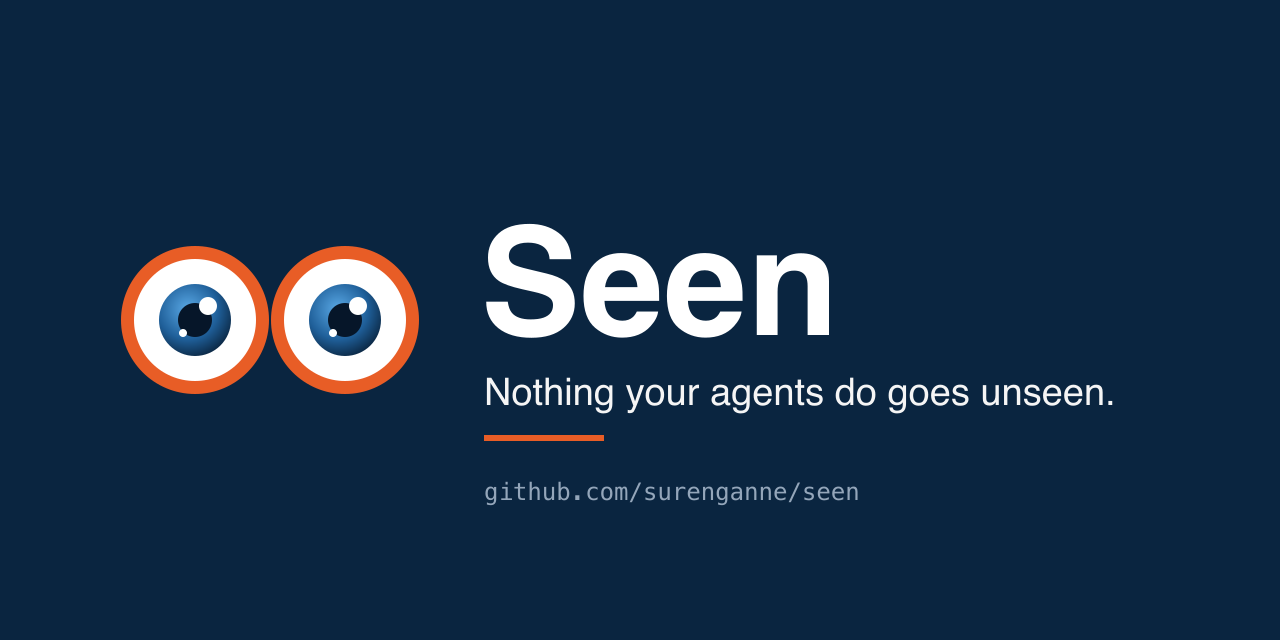
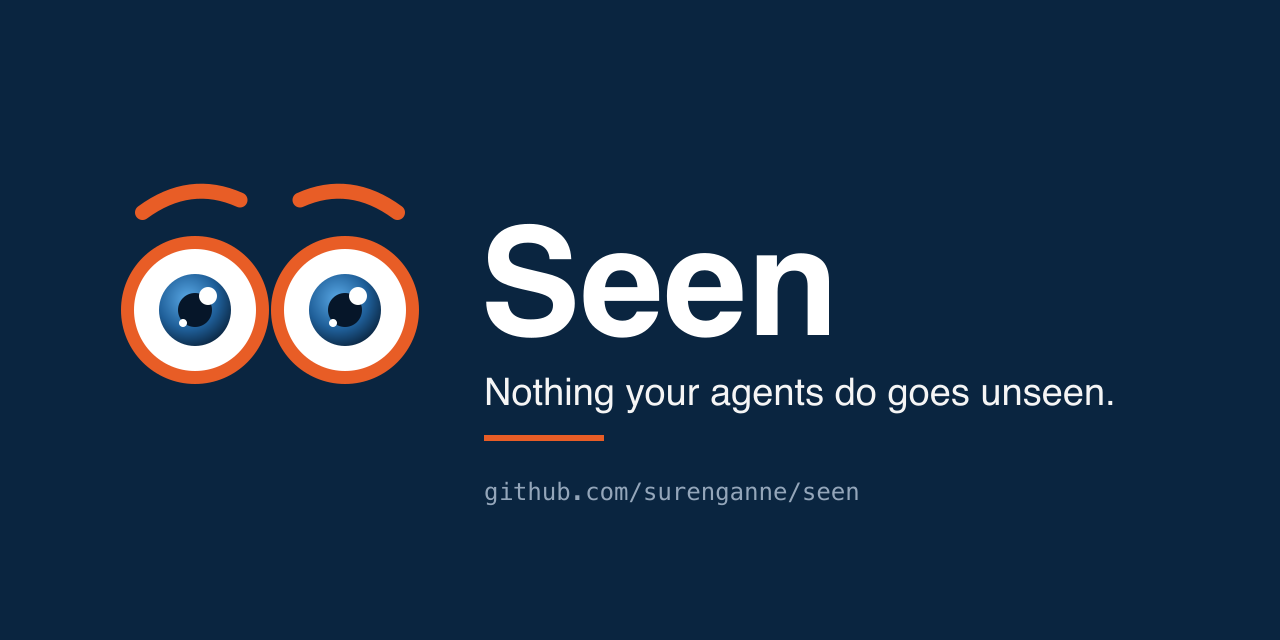
brand: add brows to the eyes; one consistent mark everywhere
- Eyes gain orange brows that lift now and then (idle) and draw down
  in alert; alert no longer recolours the mark, so it always reads as
  the same logo. Project cards show the idle mark and leave status to
  the "Needs attention" badge.
- Brand SVGs centred and redrawn with brows; PNG icons and social
  preview regenerated. DESIGN.md and TESTING.md updated.

Changed region(s): [[0.0938, 0.2812, 0.3438, 0.625], [0.2188, 0.2812, 0.3125, 0.3438]]

diff --git a/web/src/components/Eyes.tsx b/web/src/components/Eyes.tsx
@@ -3,8 +3,9 @@ import "./eyes.css";
 
 export type EyesState = "idle" | "alert";
 
-/** The Seen mark (assets/brand/eyes.svg): two round eyes, transparent background.
- *  idle: looks around and blinks. alert: stops, stares straight ahead, iris and rim turn crimson. Reduced motion respected. */
+/** The Seen mark (assets/brand/eyes.svg): two round eyes with brows, transparent background.
+ *  idle: looks around, blinks, lifts the brows now and then. alert: stares straight ahead with the brows drawn
+ *  down; colours stay the same so the mark is always recognisable. Reduced motion respected. */
 export function Eyes({ state = "idle", size = 32, label, onDark = false }: { state?: EyesState; size?: number; label?: string; onDark?: boolean }) {
   const id = useId().replace(/:/g, "");
   const eye = (cx: number, side: "l" | "r") => (
@@ -12,7 +13,7 @@ export function Eyes({ state = "idle", size = 32, label, onDark = false }: { sta
       <circle className="eyes-rim" cx={cx} cy="32" r="13.5" />
       <g clipPath={`url(#${id}${side})`}>
         <g className="eyes-look">
-          <circle cx={cx} cy="32" r="7.2" fill={`url(#${id}iris)`} className="eyes-iris" />
+          <circle cx={cx} cy="32" r="7.2" fill={`url(#${id}iris)`} />
           <circle cx={cx} cy="32" r="3.4" className="eyes-pupil" />
           <circle cx={cx + 2.6} cy="29.2" r="1.8" className="eyes-glint" />
           <circle cx={cx - 2.4} cy="34.6" r="0.8" className="eyes-glint" />
@@ -24,21 +25,23 @@ export function Eyes({ state = "idle", size = 32, label, onDark = false }: { sta
     <svg
       className={`eyes eyes-${state}${onDark ? " eyes-on-dark" : ""}`}
       width={size * 1.5}
-      height={size * 0.75}
-      viewBox="0 16 64 32"
+      height={size * 1.03}
+      viewBox="0 4 64 44"
       role="img"
       aria-label={label ?? (state === "alert" ? "Seen: needs attention" : "Seen")}
       data-state={state}
     >
       <defs>
         <radialGradient id={`${id}iris`} cx="40%" cy="35%" r="70%">
-          <stop offset="0" className="eyes-iris-hi" />
-          <stop offset=".6" className="eyes-iris-mid" />
-          <stop offset="1" className="eyes-iris-lo" />
+          <stop offset="0" stopColor="#5aa9e6" />
+          <stop offset=".6" stopColor="#1f5f99" />
+          <stop offset="1" stopColor="#0a2540" />
         </radialGradient>
         <clipPath id={`${id}l`}><circle cx="17" cy="32" r="12.2" /></clipPath>
         <clipPath id={`${id}r`}><circle cx="47" cy="32" r="12.2" /></clipPath>
       </defs>
+      <path className="eyes-brow eyes-brow-l" d="M6.5 12.5 Q16 5.5 26 10" />
+      <path className="eyes-brow eyes-brow-r" d="M38 10 Q48 5.5 57.5 12.5" />
       {eye(17, "l")}
       {eye(47, "r")}
     </svg>

diff --git a/web/src/components/eyes.css b/web/src/components/eyes.css
@@ -1,21 +1,21 @@
 .eyes { display: block; flex: none; overflow: visible; }
-.eyes-rim { fill: #fff; stroke: #e85d26; stroke-width: 2.6; transition: stroke 250ms ease; }
-.eyes-iris-hi { stop-color: #5aa9e6; transition: stop-color 250ms ease; }
-.eyes-iris-mid { stop-color: #1f5f99; transition: stop-color 250ms ease; }
-.eyes-iris-lo { stop-color: #0a2540; transition: stop-color 250ms ease; }
+.eyes-rim { fill: #fff; stroke: #e85d26; stroke-width: 2.6; }
 .eyes-pupil { fill: #061629; transition: r 250ms ease; }
 .eyes-glint { fill: #fff; }
+.eyes-brow { fill: none; stroke: #e85d26; stroke-width: 3; stroke-linecap: round; transform-box: fill-box; transform-origin: center;
+  transition: transform 250ms cubic-bezier(0.25, 1, 0.5, 1); }
 .eyes-eye { transform-box: fill-box; transform-origin: center; }
 .eyes-idle .eyes-eye { animation: eyes-blink 5.4s infinite; }
 .eyes-idle .eyes-look { animation: eyes-look 7s cubic-bezier(0.25, 1, 0.5, 1) infinite; }
-.eyes-alert .eyes-rim { stroke: #d42a45; }
-.eyes-alert .eyes-iris-hi { stop-color: #ff8a95; }
-.eyes-alert .eyes-iris-mid { stop-color: #d42a45; }
-.eyes-alert .eyes-iris-lo { stop-color: #7a1028; }
+.eyes-idle .eyes-brow { animation: eyes-brow 7s cubic-bezier(0.25, 1, 0.5, 1) infinite; }
+/* alert: same colours, brows drawn down and in, narrow pupil, no wandering */
+.eyes-alert .eyes-brow-l { transform: translate(1px, 2.5px) rotate(14deg); }
+.eyes-alert .eyes-brow-r { transform: translate(-1px, 2.5px) rotate(-14deg); }
 .eyes-alert .eyes-pupil { r: 2.4; }
 @keyframes eyes-look {
   0%, 16% { transform: translate(0, 0); } 22%, 38% { transform: translate(-4.5px, 0.8px); }
   44%, 60% { transform: translate(4.5px, -0.6px); } 66%, 82% { transform: translate(1px, 3px); } 88%, 100% { transform: translate(0, 0); }
 }
+@keyframes eyes-brow { 0%, 40%, 62%, 100% { transform: translateY(0); } 46%, 56% { transform: translateY(-1.8px); } }
 @keyframes eyes-blink { 0%, 92%, 100% { transform: scaleY(1); } 95% { transform: scaleY(0.1); } }
-@media (prefers-reduced-motion: reduce) { .eyes-eye, .eyes-look { animation: none !important; } }
+@media (prefers-reduced-motion: reduce) { .eyes-eye, .eyes-look, .eyes-brow { animation: none !important; } }

diff --git a/web/src/pages/Projects.tsx b/web/src/pages/Projects.tsx
@@ -30,7 +30,7 @@ export function Projects() {
                 <h2>{p.name ?? p.id}</h2>
                 <div className="path muted tiny" style={{ marginTop: 2 }}>{p.remote ?? p.root_path}</div>
               </div>
-              <Eyes state={p.alert ? "alert" : "idle"} size={30} label={p.alert ? "Needs attention" : "Nothing needs attention"} />
+              <Eyes size={26} label="Seen" />
             </div>
             <div className="facts">
               <div><div className="label">Changes</div><div className="value mono">{p.changes.toLocaleString()}</div></div>

diff --git a/docs/TESTING.md b/docs/TESTING.md
@@ -110,14 +110,14 @@ Open <http://127.0.0.1:47826>. Do Parts 5–8 in a desktop browser, then repeat 
 ## Part 5. Dashboard: shell, Projects and Overview
 
 **Shell**
-- [ ] The left rail shows the round eyes mark (orange rim, blue iris) beside "Seen". It looks around and blinks.
+- [ ] The left rail shows the round eyes mark (orange rim and brows, blue iris) beside "Seen". It looks around, blinks and lifts its brows now and then.
 - [ ] Turn on "Reduce motion" in your OS settings and reload: the eyes stop moving.
 - [ ] The theme switch (sun / monitor / moon, top right) changes light and dark at once. Reload: your choice is kept.
 - [ ] The rail footer says `Audit chain verified (2,033)`.
 
 **Projects** (`/`)
-- [ ] Three project cards, each with changes, 7-day cost, last change and a red "Needs attention" badge. The eyes on each card are crimson and staring (alert).
-- [ ] Click payments-api: you land on its Overview, and the rail's Project select now shows payments-api.
+- [ ] Three project cards, each with the brand mark, changes, 7-day cost, last change and a red "Needs attention" badge.
+- [ ] Click payments-api: you land on its Overview, and the rail's Project select now shows payments-api. The rail eyes stop wandering and stare with lowered brows (alert), because this project has open findings.
 
 **Overview**
 - [ ] Six summary tiles: Changes, Cost, Tokens, Memory loaded, Policy missed, Changes with PII exposure. Tiles that need attention are tinted with an icon.

diff --git a/DESIGN.md b/DESIGN.md
@@ -67,10 +67,13 @@ figures. Hierarchy comes from size and weight steps, not extra typefaces. No all
 
 ## The mark
 
-`components/Eyes.tsx` and `assets/brand/eyes.svg`: two round eyes on a transparent background, white
-sclera, Minfy-orange rim, blue iris (`#5AA9E6 → #1F5F99 → #0A2540`), navy pupil and a double glint.
-Idle: looks around and blinks. Alert (open high-confidence PII or a missed rule): stops, stares ahead, rim
-and iris turn crimson, pupil narrows. Static, mono and PNG variants live in `assets/brand/`.
+`components/Eyes.tsx` and `assets/brand/eyes.svg`: two round eyes with brows on a transparent background,
+white sclera, Minfy-orange rim and brows, blue iris (`#5AA9E6 → #1F5F99 → #0A2540`), navy pupil and a double
+glint. The colours never change, so the mark reads the same everywhere. Idle: looks around, blinks and lifts
+its brows now and then. Alert (the selected project has open high-confidence PII or a missed rule): stops,
+stares ahead with the brows drawn down, pupil narrows; the accessible name becomes "Seen: needs attention".
+Project cards always show the idle mark; their status is the "Needs attention" badge. Static, mono and PNG
+variants live in `assets/brand/`.
 
 ## Motion
 
